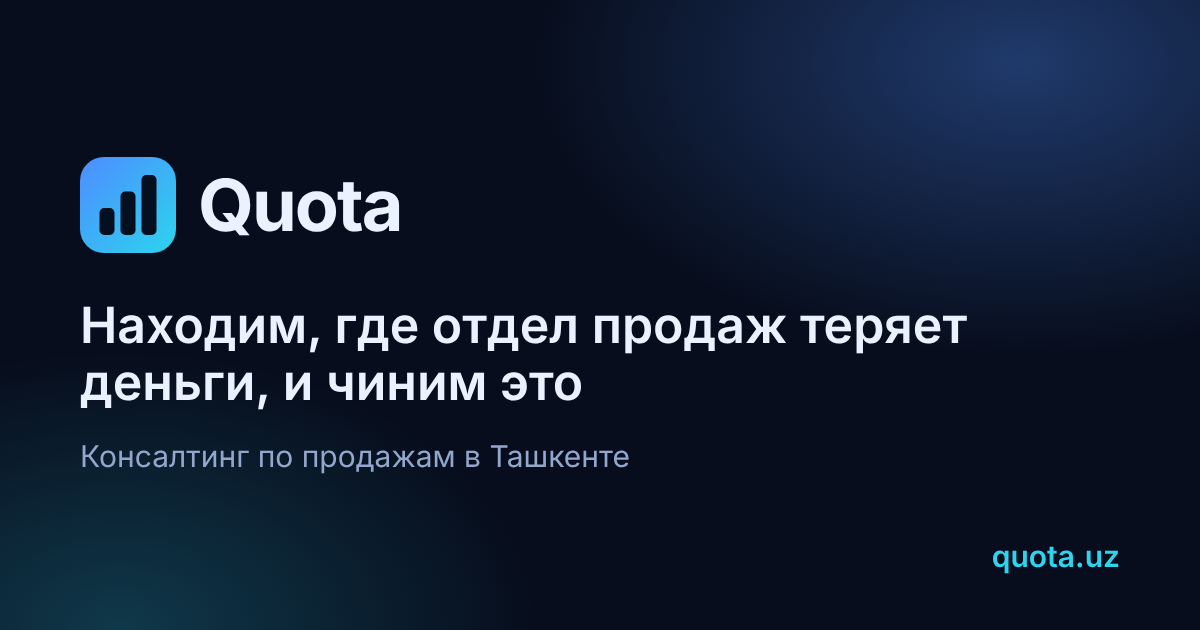
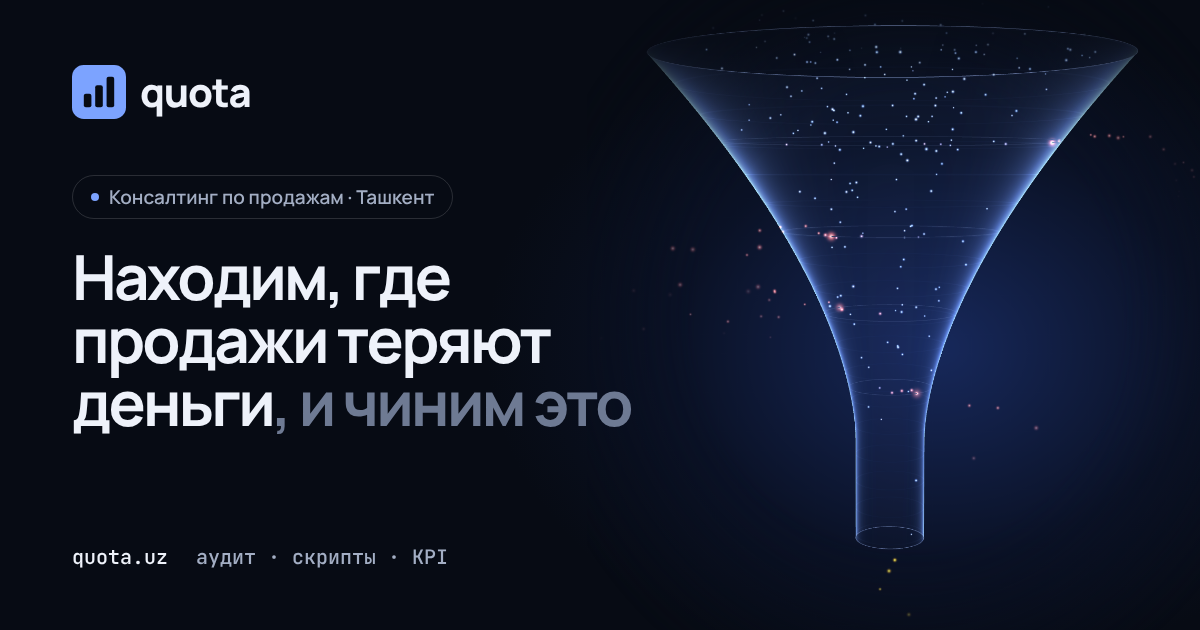
Новые баннер для соцсетей, иконки и манифест в стиле нового дизайна
Claude-Session: https://claude.ai/code/session_01SNJ5sQbLNXybg3n3neGQHd

diff --git a/faq.html b/faq.html
@@ -9,25 +9,27 @@
 <link rel="canonical" href="https://quota.uz/faq">
 <meta name="robots" content="index,follow,max-image-preview:large">
 <meta name="theme-color" content="#070B14">
-<link rel="icon" href="/favicon.ico" sizes="48x48">
+<link rel="icon" href="/favicon.ico?v=20261027" sizes="48x48">
 <link rel="icon" type="image/png" sizes="48x48" href="/favicon-48.png">
-<link rel="icon" href="/favicon.svg" type="image/svg+xml">
+<link rel="icon" href="/favicon.svg?v=20261027" type="image/svg+xml">
 <link rel="icon" type="image/png" sizes="32x32" href="/favicon-32.png">
 <link rel="icon" type="image/png" sizes="192x192" href="/icon-192.png">
-<link rel="apple-touch-icon" href="/apple-touch-icon.png">
+<link rel="apple-touch-icon" href="/apple-touch-icon.png?v=20261027">
+<link rel="manifest" href="/site.webmanifest">
 <meta property="og:type" content="website">
 <meta property="og:site_name" content="Quota">
 <meta property="og:locale" content="ru_RU">
 <meta property="og:title" content="Вопросы и ответы: аудит отдела продаж, цены — Quota">
 <meta property="og:description" content="Ответы на частые вопросы: что входит в диагностику продаж, сколько стоит аудит отдела продаж в Ташкенте, как мы работаем с CRM, сколько длится внедрение.">
 <meta property="og:url" content="https://quota.uz/faq">
-<meta property="og:image" content="https://quota.uz/og-image.png">
+<meta property="og:image" content="https://quota.uz/og-image.png?v=20261027">
+<meta property="og:image:alt" content="Quota — находим, где продажи теряют деньги, и чиним это">
 <meta property="og:image:width" content="1200">
 <meta property="og:image:height" content="630">
 <meta name="twitter:card" content="summary_large_image">
 <meta name="twitter:title" content="Вопросы и ответы: аудит отдела продаж, цены — Quota">
 <meta name="twitter:description" content="Ответы на частые вопросы: что входит в диагностику продаж, сколько стоит аудит отдела продаж в Ташкенте, как мы работаем с CRM, сколько длится внедрение.">
-<meta name="twitter:image" content="https://quota.uz/og-image.png">
+<meta name="twitter:image" content="https://quota.uz/og-image.png?v=20261027">
 <link rel="preconnect" href="https://fonts.googleapis.com">
 <link rel="preconnect" href="https://fonts.gstatic.com" crossorigin>
 <link href="https://fonts.googleapis.com/css2?family=Manrope:wght@400;500;600;700;800&family=JetBrains+Mono:wght@400;500;600&display=swap" rel="stylesheet">

diff --git a/index.html b/index.html
@@ -9,25 +9,27 @@
 <link rel="canonical" href="https://quota.uz/">
 <meta name="robots" content="index,follow,max-image-preview:large">
 <meta name="theme-color" content="#070B14">
-<link rel="icon" href="/favicon.ico" sizes="48x48">
+<link rel="icon" href="/favicon.ico?v=20261027" sizes="48x48">
 <link rel="icon" type="image/png" sizes="48x48" href="/favicon-48.png">
-<link rel="icon" href="/favicon.svg" type="image/svg+xml">
+<link rel="icon" href="/favicon.svg?v=20261027" type="image/svg+xml">
 <link rel="icon" type="image/png" sizes="32x32" href="/favicon-32.png">
 <link rel="icon" type="image/png" sizes="192x192" href="/icon-192.png">
-<link rel="apple-touch-icon" href="/apple-touch-icon.png">
+<link rel="apple-touch-icon" href="/apple-touch-icon.png?v=20261027">
+<link rel="manifest" href="/site.webmanifest">
 <meta property="og:type" content="website">
 <meta property="og:site_name" content="Quota">
 <meta property="og:locale" content="ru_RU">
 <meta property="og:title" content="Quota — консалтинг по продажам в Ташкенте">
 <meta property="og:description" content="Аудит отдела продаж в Ташкенте: находим потери в воронке, разбираем звонки, выстраиваем скрипты, KPI и контроль. Считаем потери в сумах. Мини-аудит от Quota.">
 <meta property="og:url" content="https://quota.uz/">
-<meta property="og:image" content="https://quota.uz/og-image.png">
+<meta property="og:image" content="https://quota.uz/og-image.png?v=20261027">
+<meta property="og:image:alt" content="Quota — находим, где продажи теряют деньги, и чиним это">
 <meta property="og:image:width" content="1200">
 <meta property="og:image:height" content="630">
 <meta name="twitter:card" content="summary_large_image">
 <meta name="twitter:title" content="Quota — консалтинг по продажам в Ташкенте">
 <meta name="twitter:description" content="Аудит отдела продаж в Ташкенте: находим потери в воронке, разбираем звонки, выстраиваем скрипты, KPI и контроль. Считаем потери в сумах. Мини-аудит от Quota.">
-<meta name="twitter:image" content="https://quota.uz/og-image.png">
+<meta name="twitter:image" content="https://quota.uz/og-image.png?v=20261027">
 <link rel="preconnect" href="https://fonts.googleapis.com">
 <link rel="preconnect" href="https://fonts.gstatic.com" crossorigin>
 <link href="https://fonts.googleapis.com/css2?family=Manrope:wght@400;500;600;700;800&family=JetBrains+Mono:wght@400;500;600&display=swap" rel="stylesheet">

diff --git a/calculator.html b/calculator.html
@@ -9,25 +9,27 @@
 <link rel="canonical" href="https://quota.uz/calculator">
 <meta name="robots" content="index,follow,max-image-preview:large">
 <meta name="theme-color" content="#070B14">
-<link rel="icon" href="/favicon.ico" sizes="48x48">
+<link rel="icon" href="/favicon.ico?v=20261027" sizes="48x48">
 <link rel="icon" type="image/png" sizes="48x48" href="/favicon-48.png">
-<link rel="icon" href="/favicon.svg" type="image/svg+xml">
+<link rel="icon" href="/favicon.svg?v=20261027" type="image/svg+xml">
 <link rel="icon" type="image/png" sizes="32x32" href="/favicon-32.png">
 <link rel="icon" type="image/png" sizes="192x192" href="/icon-192.png">
-<link rel="apple-touch-icon" href="/apple-touch-icon.png">
+<link rel="apple-touch-icon" href="/apple-touch-icon.png?v=20261027">
+<link rel="manifest" href="/site.webmanifest">
 <meta property="og:type" content="website">
 <meta property="og:site_name" content="Quota">
 <meta property="og:locale" content="ru_RU">
 <meta property="og:title" content="Калькулятор потерь в продажах — Quota">
 <meta property="og:description" content="Бесплатный калькулятор: посчитайте, сколько выручки можно вернуть, если навести порядок в заявках, конверсии и среднем чеке. Quota, Ташкент.">
 <meta property="og:url" content="https://quota.uz/calculator">
-<meta property="og:image" content="https://quota.uz/og-image.png">
+<meta property="og:image" content="https://quota.uz/og-image.png?v=20261027">
+<meta property="og:image:alt" content="Quota — находим, где продажи теряют деньги, и чиним это">
 <meta property="og:image:width" content="1200">
 <meta property="og:image:height" content="630">
 <meta name="twitter:card" content="summary_large_image">
 <meta name="twitter:title" content="Калькулятор потерь в продажах — Quota">
 <meta name="twitter:description" content="Бесплатный калькулятор: посчитайте, сколько выручки можно вернуть, если навести порядок в заявках, конверсии и среднем чеке. Quota, Ташкент.">
-<meta name="twitter:image" content="https://quota.uz/og-image.png">
+<meta name="twitter:image" content="https://quota.uz/og-image.png?v=20261027">
 <link rel="preconnect" href="https://fonts.googleapis.com">
 <link rel="preconnect" href="https://fonts.gstatic.com" crossorigin>
 <link href="https://fonts.googleapis.com/css2?family=Manrope:wght@400;500;600;700;800&family=JetBrains+Mono:wght@400;500;600&display=swap" rel="stylesheet">

diff --git a/services.html b/services.html
@@ -9,25 +9,27 @@
 <link rel="canonical" href="https://quota.uz/services">
 <meta name="robots" content="index,follow,max-image-preview:large">
 <meta name="theme-color" content="#070B14">
-<link rel="icon" href="/favicon.ico" sizes="48x48">
+<link rel="icon" href="/favicon.ico?v=20261027" sizes="48x48">
 <link rel="icon" type="image/png" sizes="48x48" href="/favicon-48.png">
-<link rel="icon" href="/favicon.svg" type="image/svg+xml">
+<link rel="icon" href="/favicon.svg?v=20261027" type="image/svg+xml">
 <link rel="icon" type="image/png" sizes="32x32" href="/favicon-32.png">
 <link rel="icon" type="image/png" sizes="192x192" href="/icon-192.png">
-<link rel="apple-touch-icon" href="/apple-touch-icon.png">
+<link rel="apple-touch-icon" href="/apple-touch-icon.png?v=20261027">
+<link rel="manifest" href="/site.webmanifest">
 <meta property="og:type" content="website">
 <meta property="og:site_name" content="Quota">
 <meta property="og:locale" content="ru_RU">
 <meta property="og:title" content="Услуги: аудит продаж, скрипты, KPI — Quota">
 <meta property="og:description" content="Услуги Quota: диагностика воронки продаж, скрипты и обучение менеджеров, KPI и мотивация, сопровождение отдела продаж. Сроки и цены. Ташкент.">
 <meta property="og:url" content="https://quota.uz/services">
-<meta property="og:image" content="https://quota.uz/og-image.png">
+<meta property="og:image" content="https://quota.uz/og-image.png?v=20261027">
+<meta property="og:image:alt" content="Quota — находим, где продажи теряют деньги, и чиним это">
 <meta property="og:image:width" content="1200">
 <meta property="og:image:height" content="630">
 <meta name="twitter:card" content="summary_large_image">
 <meta name="twitter:title" content="Услуги: аудит продаж, скрипты, KPI — Quota">
 <meta name="twitter:description" content="Услуги Quota: диагностика воронки продаж, скрипты и обучение менеджеров, KPI и мотивация, сопровождение отдела продаж. Сроки и цены. Ташкент.">
-<meta name="twitter:image" content="https://quota.uz/og-image.png">
+<meta name="twitter:image" content="https://quota.uz/og-image.png?v=20261027">
 <link rel="preconnect" href="https://fonts.googleapis.com">
 <link rel="preconnect" href="https://fonts.gstatic.com" crossorigin>
 <link href="https://fonts.googleapis.com/css2?family=Manrope:wght@400;500;600;700;800&family=JetBrains+Mono:wght@400;500;600&display=swap" rel="stylesheet">

diff --git a/about.html b/about.html
@@ -9,25 +9,27 @@
 <link rel="canonical" href="https://quota.uz/about">
 <meta name="robots" content="index,follow,max-image-preview:large">
 <meta name="theme-color" content="#070B14">
-<link rel="icon" href="/favicon.ico" sizes="48x48">
+<link rel="icon" href="/favicon.ico?v=20261027" sizes="48x48">
 <link rel="icon" type="image/png" sizes="48x48" href="/favicon-48.png">
-<link rel="icon" href="/favicon.svg" type="image/svg+xml">
+<link rel="icon" href="/favicon.svg?v=20261027" type="image/svg+xml">
 <link rel="icon" type="image/png" sizes="32x32" href="/favicon-32.png">
 <link rel="icon" type="image/png" sizes="192x192" href="/icon-192.png">
-<link rel="apple-touch-icon" href="/apple-touch-icon.png">
+<link rel="apple-touch-icon" href="/apple-touch-icon.png?v=20261027">
+<link rel="manifest" href="/site.webmanifest">
 <meta property="og:type" content="website">
 <meta property="og:site_name" content="Quota">
 <meta property="og:locale" content="ru_RU">
 <meta property="og:title" content="О Quota — консалтинг по продажам в Ташкенте">
 <meta property="og:description" content="Как работает Quota: принципы, пять шагов, на которых компании теряют клиентов, процесс аудита отдела продаж и с кем мы не работаем.">
 <meta property="og:url" content="https://quota.uz/about">
-<meta property="og:image" content="https://quota.uz/og-image.png">
+<meta property="og:image" content="https://quota.uz/og-image.png?v=20261027">
+<meta property="og:image:alt" content="Quota — находим, где продажи теряют деньги, и чиним это">
 <meta property="og:image:width" content="1200">
 <meta property="og:image:height" content="630">
 <meta name="twitter:card" content="summary_large_image">
 <meta name="twitter:title" content="О Quota — консалтинг по продажам в Ташкенте">
 <meta name="twitter:description" content="Как работает Quota: принципы, пять шагов, на которых компании теряют клиентов, процесс аудита отдела продаж и с кем мы не работаем.">
-<meta name="twitter:image" content="https://quota.uz/og-image.png">
+<meta name="twitter:image" content="https://quota.uz/og-image.png?v=20261027">
 <link rel="preconnect" href="https://fonts.googleapis.com">
 <link rel="preconnect" href="https://fonts.gstatic.com" crossorigin>
 <link href="https://fonts.googleapis.com/css2?family=Manrope:wght@400;500;600;700;800&family=JetBrains+Mono:wght@400;500;600&display=swap" rel="stylesheet">

diff --git a/contacts.html b/contacts.html
@@ -9,25 +9,27 @@
 <link rel="canonical" href="https://quota.uz/contacts">
 <meta name="robots" content="index,follow,max-image-preview:large">
 <meta name="theme-color" content="#070B14">
-<link rel="icon" href="/favicon.ico" sizes="48x48">
+<link rel="icon" href="/favicon.ico?v=20261027" sizes="48x48">
 <link rel="icon" type="image/png" sizes="48x48" href="/favicon-48.png">
-<link rel="icon" href="/favicon.svg" type="image/svg+xml">
+<link rel="icon" href="/favicon.svg?v=20261027" type="image/svg+xml">
 <link rel="icon" type="image/png" sizes="32x32" href="/favicon-32.png">
 <link rel="icon" type="image/png" sizes="192x192" href="/icon-192.png">
-<link rel="apple-touch-icon" href="/apple-touch-icon.png">
+<link rel="apple-touch-icon" href="/apple-touch-icon.png?v=20261027">
+<link rel="manifest" href="/site.webmanifest">
 <meta property="og:type" content="website">
 <meta property="og:site_name" content="Quota">
 <meta property="og:locale" content="ru_RU">
 <meta property="og:title" content="Контакты Quota — консалтинг по продажам, Ташкент">
 <meta property="og:description" content="Связаться с Quota: Telegram @quota_uz, Instagram @quota.uz, телефон +998 93 554 65 75, почта info@quota.uz. Ташкент.">
 <meta property="og:url" content="https://quota.uz/contacts">
-<meta property="og:image" content="https://quota.uz/og-image.png">
+<meta property="og:image" content="https://quota.uz/og-image.png?v=20261027">
+<meta property="og:image:alt" content="Quota — находим, где продажи теряют деньги, и чиним это">
 <meta property="og:image:width" content="1200">
 <meta property="og:image:height" content="630">
 <meta name="twitter:card" content="summary_large_image">
 <meta name="twitter:title" content="Контакты Quota — консалтинг по продажам, Ташкент">
 <meta name="twitter:description" content="Связаться с Quota: Telegram @quota_uz, Instagram @quota.uz, телефон +998 93 554 65 75, почта info@quota.uz. Ташкент.">
-<meta name="twitter:image" content="https://quota.uz/og-image.png">
+<meta name="twitter:image" content="https://quota.uz/og-image.png?v=20261027">
 <link rel="preconnect" href="https://fonts.googleapis.com">
 <link rel="preconnect" href="https://fonts.gstatic.com" crossorigin>
 <link href="https://fonts.googleapis.com/css2?family=Manrope:wght@400;500;600;700;800&family=JetBrains+Mono:wght@400;500;600&display=swap" rel="stylesheet">
